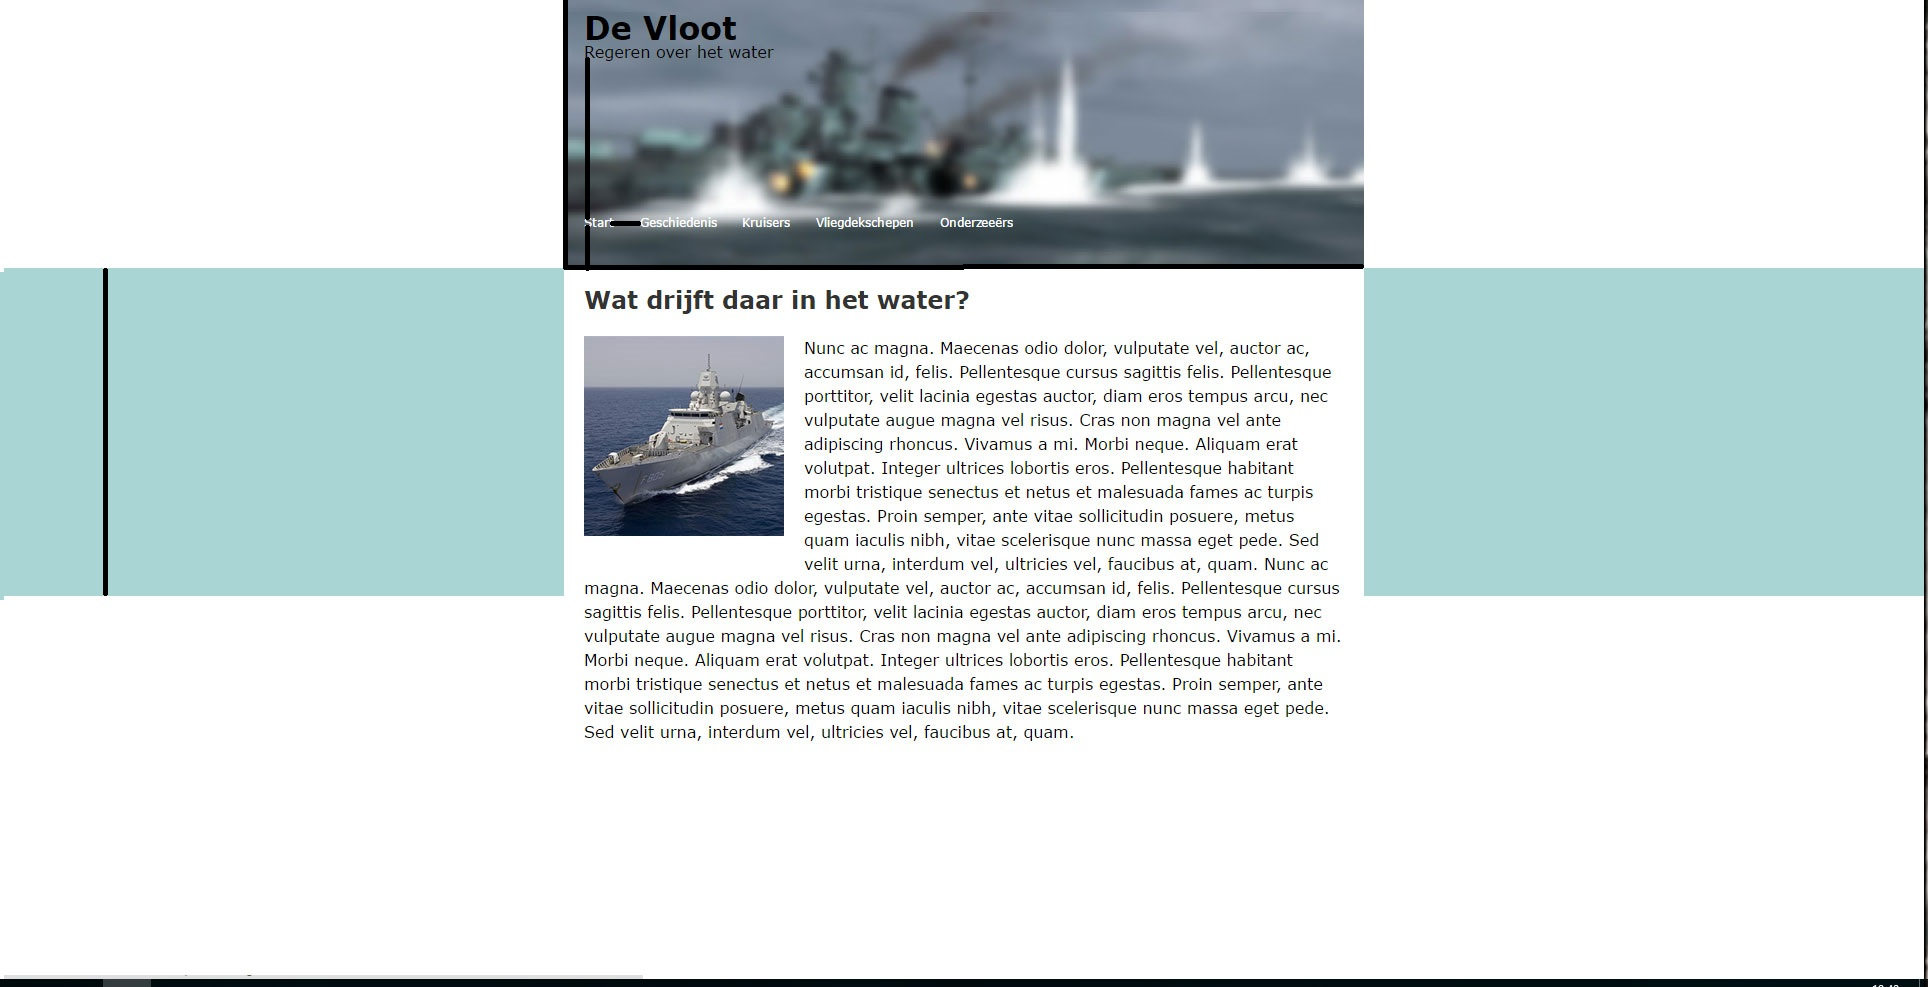
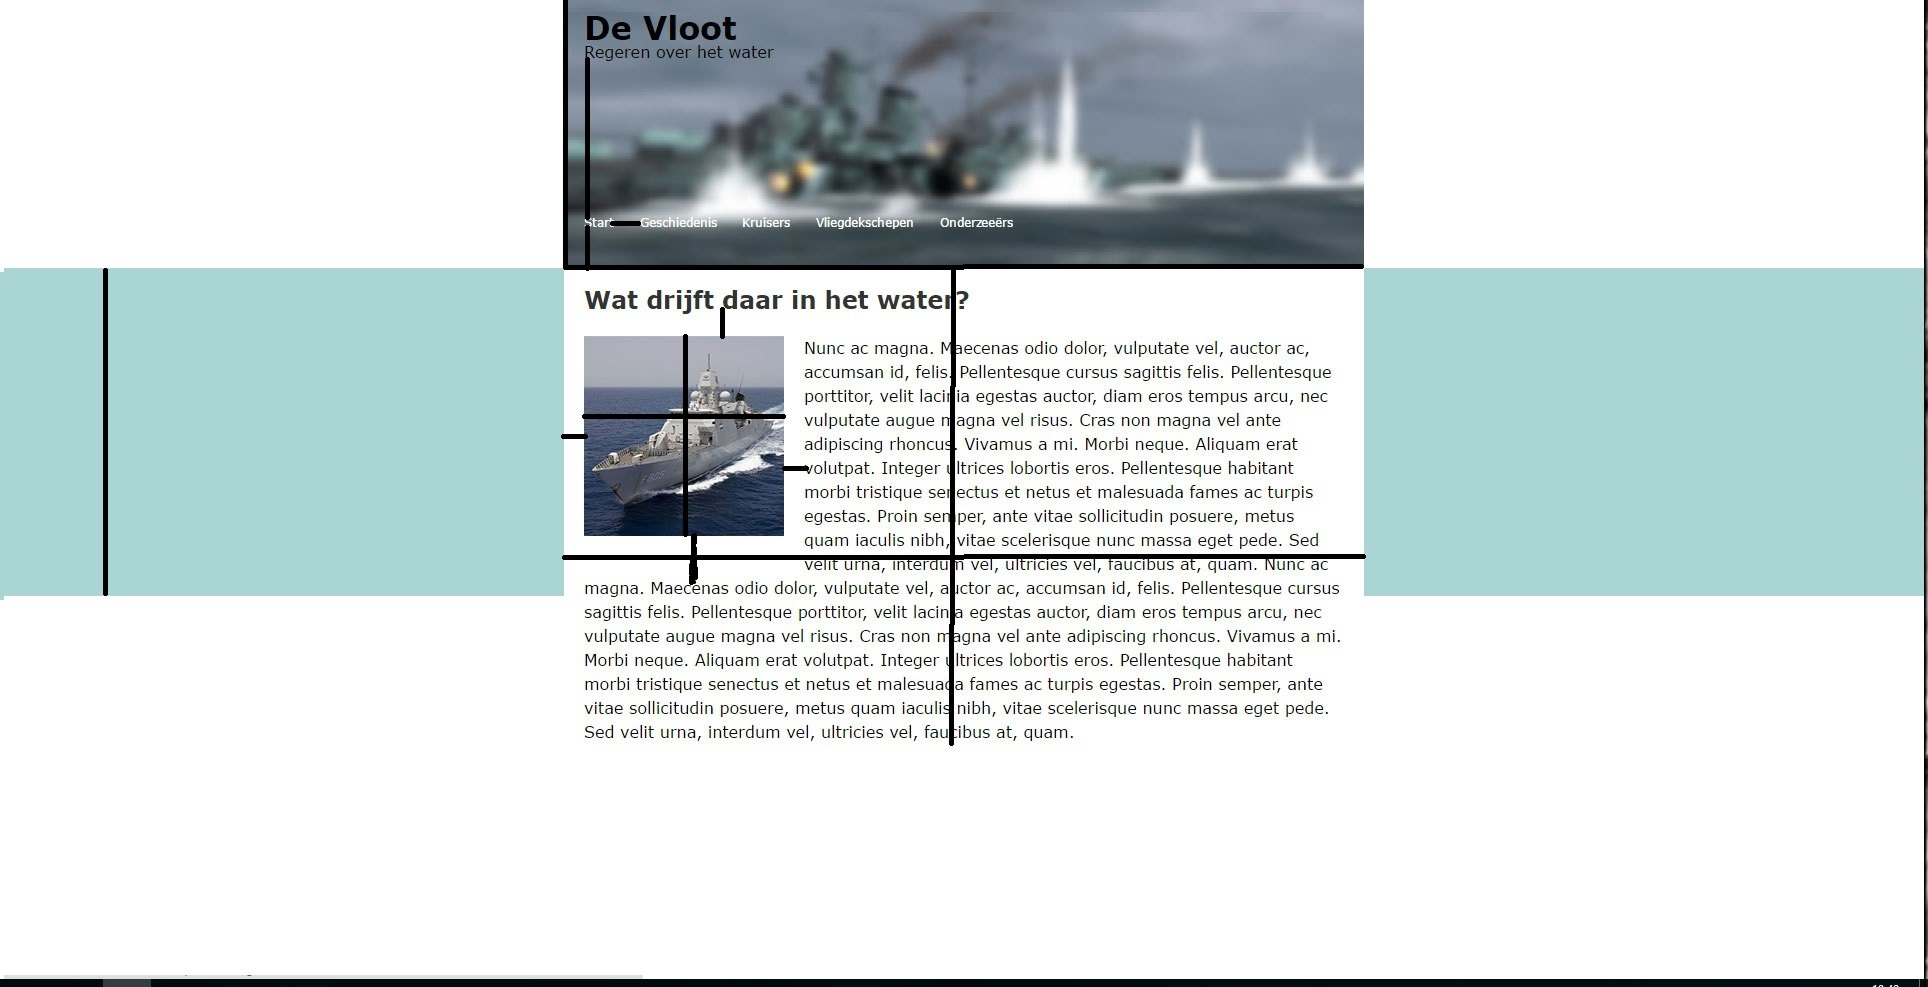
added geschiedenis gooter head navbar(g) changed index.html to index.php, started using php and drawn in voorbeelden for measurements

Changed region(s): [[0.2801, 0.5471, 0.7158, 0.5775], [0.3112, 0.3951, 0.4046, 0.4255]]

diff --git a/css/css/global.css b/css/css/global.css
@@ -1,7 +1,13 @@
-.balk {
+* {
+  margin: 0;
+}
+
+
+.container {
   background-color: #A9D5D4;
   width: 100%;
   height: 324px;
+  position: relative;
 }
 
 .header {
@@ -31,4 +37,81 @@ li a {
 ul {
   list-style-type: none;
 
+}
+
+.vbalk {
+  background-color: white;
+  color: black;
+  font-style: arial;
+  margin: 0 auto;
+  width: 800px;
+  height: 400px;
+  z-index: 10;
+  text-align: left;
+}
+
+.top-left {
+  float: left;
+  clear: left;
+  padding-left: 23px;
+  padding-top: 22px;
+  padding-right: 23px;
+  padding-bottom: 24px;
+  width: 200px;
+  height: 200px;
+}
+
+h2 {
+  float: left;
+  clear: left;
+}
+
+.nunc {
+  padding-top: 48px;
+  padding-left: 23px;
+  width: 700px;
+
+}
+
+.h2 {
+  padding-left: 22px;
+}
+
+.right {
+  float: right;
+  padding-left: 45px;
+  padding-right: 23px;
+  padding-top: 20px;
+  padding-bottom: 30px;
+}
+
+.tl {
+  width: 300px;
+}
+
+.vbalk1 {
+  background-color: white;
+  color: black;
+  font-style: arial;
+  margin: 0 auto;
+  width: 800px;
+  z-index: 10;
+  text-align: left;
+}
+
+.nunc1 {
+  padding-top: 30px;
+  padding-left: 23px;
+  width: 700px;
+}
+
+.vloot3 {
+    width: 400px;
+    float: left;
+    clear: left;
+    padding-left: 23px;
+    padding-top: 22px;
+    padding-right: 23px;
+    padding-bottom: 24px;
+    height: 200px;
 }

diff --git a/pages/Geschiedenis.php b/pages/Geschiedenis.php
@@ -1,0 +1,20 @@
+<?php
+include_once 'parts/head.php';
+include_once 'parts/navbarg.php';
+ ?>
+<section class="container">
+	<div class="vbalk1">
+		<h2 class="h2">Er is niet veel veranderd</h2>
+		<img src="/img/vloot1.jpg" class="top-left tl" align="top-left" hspace="20" alt="vloot1">
+    <p class="nunc" >Nunc ac magna. Maecenas odio dolor, vulputate vel, auctor ac, accumsan id, felis. Pellentesque cursus sagittis felis. Pellentesque porttitor, velit lacinia egestas auctor, diam eros tempus arcu, nec vulputate augue magna vel risus. Cras non magna vel ante adipiscing rhoncus. Vivamus a mi. Morbi neque. Aliquam erat volutpat. Integer ultrices lobortis eros. Pellentesque habitant morbi tristique senectus et netus et malesuada fames ac turpis egestas. Proin semper, ante vitae sollicitudin posuere, metus quam iaculis nibh, vitae scelerisque nunc massa eget pede. Sed velit urna, interdum vel, ultricies vel, faucibus at, quam. Nunc ac magna. Maecenas odio dolor, vulputate vel, auctor ac, accumsan id, felis. Pellentesque cursus sagittis felis. Pellentesque porttitor, velit lacinia egestas auctor, diam eros tempus arcu, nec vulputate augue magna vel risus. Cras non magna vel ante adipiscing rhoncus. Vivamus a mi. Morbi neque. Aliquam erat volutpat. Integer ultrices lobortis eros. Pellentesque habitant morbi tristique senectus et netus et malesuada fames ac turpis egestas. Proin semper,  <img src="/img/vloot2.jpg" alt="vloot" class="right tl"> ante vitae sollicitudin posuere, metus quam iaculis nibh, vitae scelerisque nunc massa eget pede. Sed velit urna, interdum vel, ultricies vel, faucibus at, quam.
+		</p>
+
+
+    <p class="nunc1">Nunc ac magna. Maecenas odio dolor, vulputate vel, auctor ac, accumsan id, felis. Pellentesque cursus sagittis felis. Pellentesque porttitor, velit lacinia egestas auctor, diam eros tempus arcu, nec vulputate augue magna vel risus. Cras non magna vel ante adipiscing rhoncus. Vivamus a mi. Morbi neque. Aliquam erat volutpat. Integer ultrices lobortis eros. Pellentesque habitant morbi tristique senectus et netus et malesuada fames ac turpis egestas. Proin semper, ante vitae sollicitudin posuere, metus quam iaculis nibh, vitae scelerisque nunc massa eget pede. Sed velit urna, interdum vel, ultricies vel, faucibus at, quam. Nunc ac magna. Maecenas odio dolor, vulputate vel, auctor ac, accumsan id, felis. Pellentesque cursus sagittis felis. Pellentesque porttitor, velit lacinia egestas auctor, diam eros tempus arcu, nec vulputate augue magna vel risus. Cras non magna vel ante adipiscing rhoncus. Vivamus a mi. <img src="/img/vloot3.jpg" alt="vloot3" class="vloot3"> Morbi neque. Aliquam erat volutpat. Integer ultrices lobortis eros. Pellentesque habitant morbi tristique senectus et netus et malesuada fames ac turpis egestas. Proin semper, ante vitae sollicitudin posuere, metus quam iaculis nibh, vitae scelerisque nunc massa eget pede. Sed velit urna, interdum vel, ultricies vel, faucibus at, quam.
+    </p>
+	</div>
+</section>
+
+<?php
+include_once 'parts/footer.php';
+ ?>

diff --git a/index.php b/index.php
@@ -1,0 +1,16 @@
+<?php
+include_once 'pages/parts/head.php';
+include_once 'pages/parts/navbar.php';
+ ?>
+<section class="container">
+	<div class="vbalk">
+		<h2 class="h2">Wat drijft daar in het water?</h2>
+		<img src="img/vloot0.jpg" class="top-left" align="top-left" hspace="20">
+		<p class="nunc" >Nunc ac magna. Maecenas odio dolor, vulputate vel, auctor ac, accumsan id, felis. Pellentesque cursus sagittis felis. Pellentesque porttitor, velit lacinia egestas auctor, diam eros tempus arcu, nec vulputate augue magna vel risus. Cras non magna vel ante adipiscing rhoncus. Vivamus a mi. Morbi neque. Aliquam erat volutpat. Integer ultrices lobortis eros. Pellentesque habitant morbi tristique senectus et netus et malesuada fames ac turpis egestas. Proin semper, ante vitae sollicitudin posuere, metus quam iaculis nibh, vitae scelerisque nunc massa eget pede. Sed velit urna, interdum vel, ultricies vel, faucibus at, quam. Nunc ac magna. Maecenas odio dolor, vulputate vel, auctor ac, accumsan id, felis. Pellentesque cursus sagittis felis. Pellentesque porttitor, velit lacinia egestas auctor, diam eros tempus arcu, nec vulputate augue magna vel risus. Cras non magna vel ante adipiscing rhoncus. Vivamus a mi. Morbi neque. Aliquam erat volutpat. Integer ultrices lobortis eros. Pellentesque habitant morbi tristique senectus et netus et malesuada fames ac turpis egestas. Proin semper, ante vitae sollicitudin posuere, metus quam iaculis nibh, vitae scelerisque nunc massa eget pede. Sed velit urna, interdum vel, ultricies vel, faucibus at, quam.
+		</p>
+	</div>
+</section>
+
+<?php
+include_once 'pages/parts/footer.php';
+ ?>

diff --git a/pages/parts/navbarg.php b/pages/parts/navbarg.php
@@ -1,0 +1,13 @@
+<div class="header">
+	<h1>De Geschiedenis</h1>
+	<p>Uit de tijd dat Marco zijn polo aan had.</p>
+	<nav>
+		<ul class="top-menu">
+		<li><a href="/index.php">Start</a></li>
+		<li><a href="/pages/Geschiedenis.php">Geschiedenis</a></li>
+		<li><a href="#">Kruisers</a></li	>
+		<li><a href="#">Vliegdekschepen</a></li>
+		<li><a href="#">Onderzeeërs</a></li>
+		</ul>
+	</nav>
+</div>

diff --git a/pages/parts/navbar.php b/pages/parts/navbar.php
@@ -1,0 +1,13 @@
+<div class="header">
+	<h1>De Vloot</h1>
+	<p>Regeren over het water.</p>
+	<nav class="padding">
+		<ul class="top-menu">
+		<li><a href="/index.php">Start</a></li>
+		<li><a href="/pages/Geschiedenis.php">Geschiedenis</a></li>
+		<li><a href="#">Kruisers</a></li	>
+		<li><a href="#">Vliegdekschepen</a></li>
+		<li><a href="#">Onderzeeërs</a></li>
+		</ul>
+	</nav>
+</div>

diff --git a/pages/parts/head.php b/pages/parts/head.php
@@ -1,0 +1,9 @@
+<!DOCTYPE html>
+<html>
+<head>
+	<meta charset="utf-8">
+	<link rel="stylesheet" type="text/css" href="/css/css/global.css">
+	<title>De vloot</title>
+</head>
+
+<body>

diff --git a/pages/parts/footer.php b/pages/parts/footer.php
@@ -1,0 +1,3 @@
+
+</body>
+</html>
